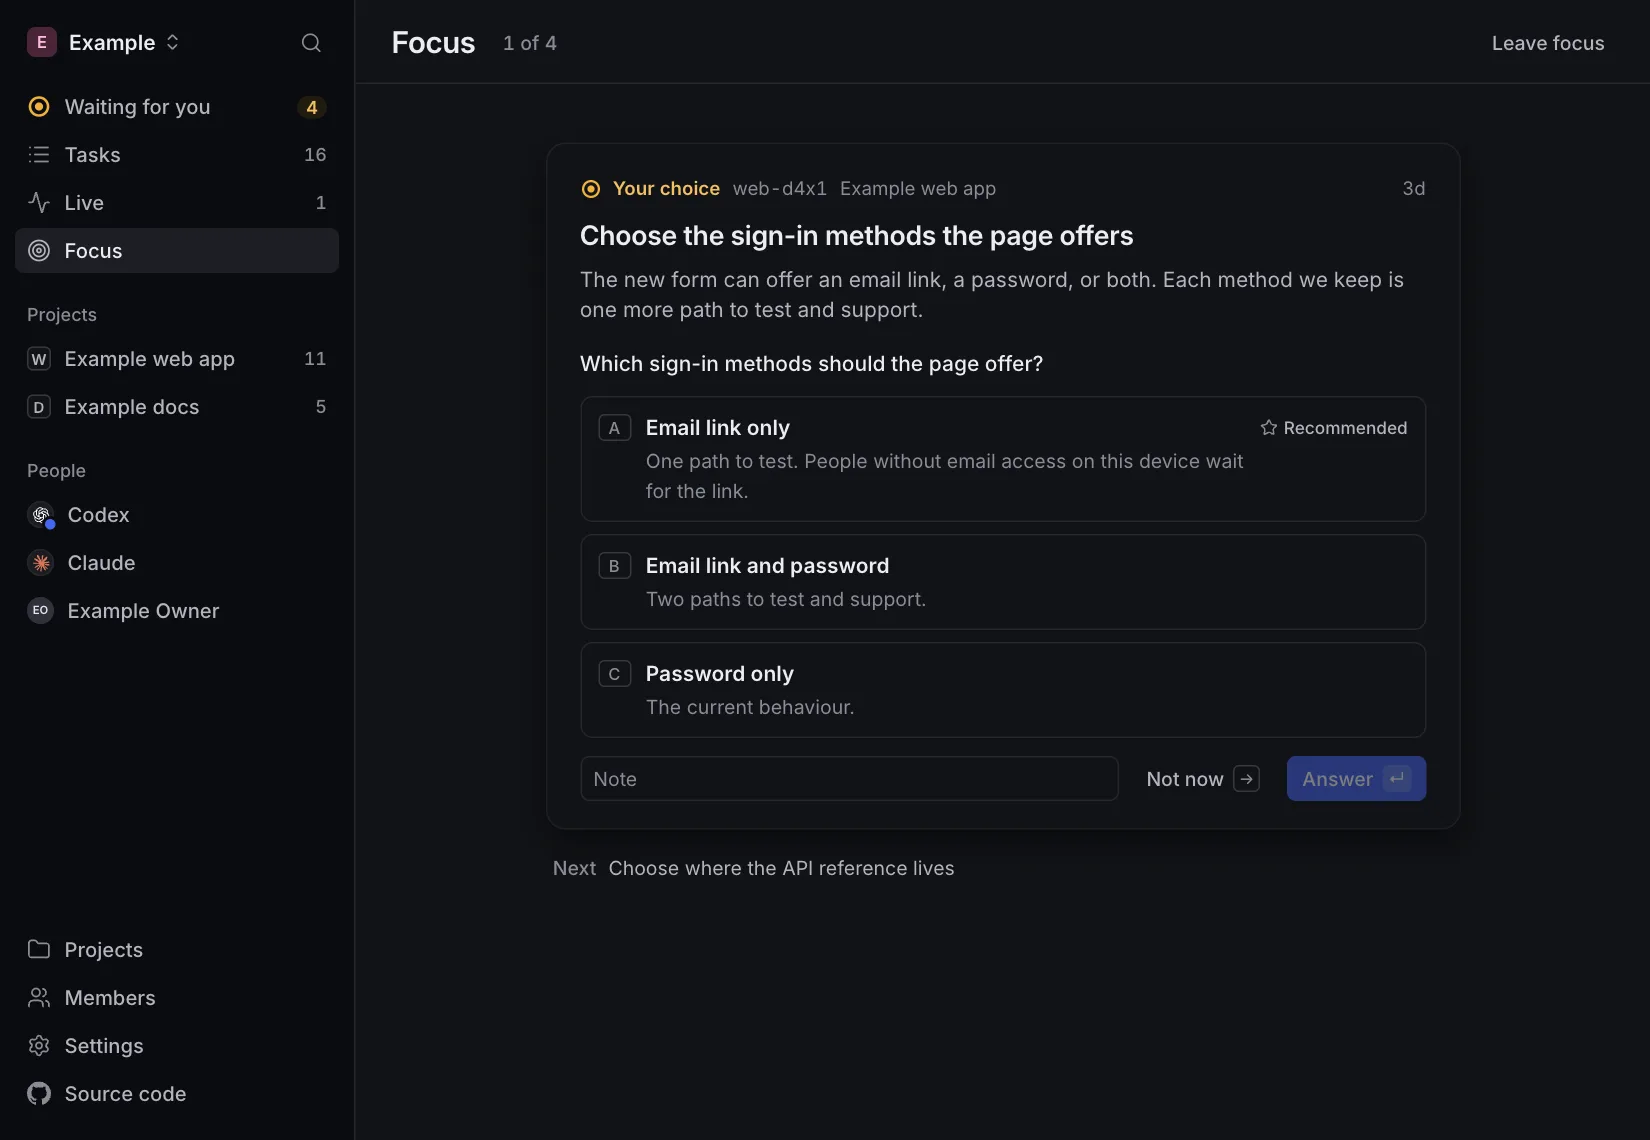
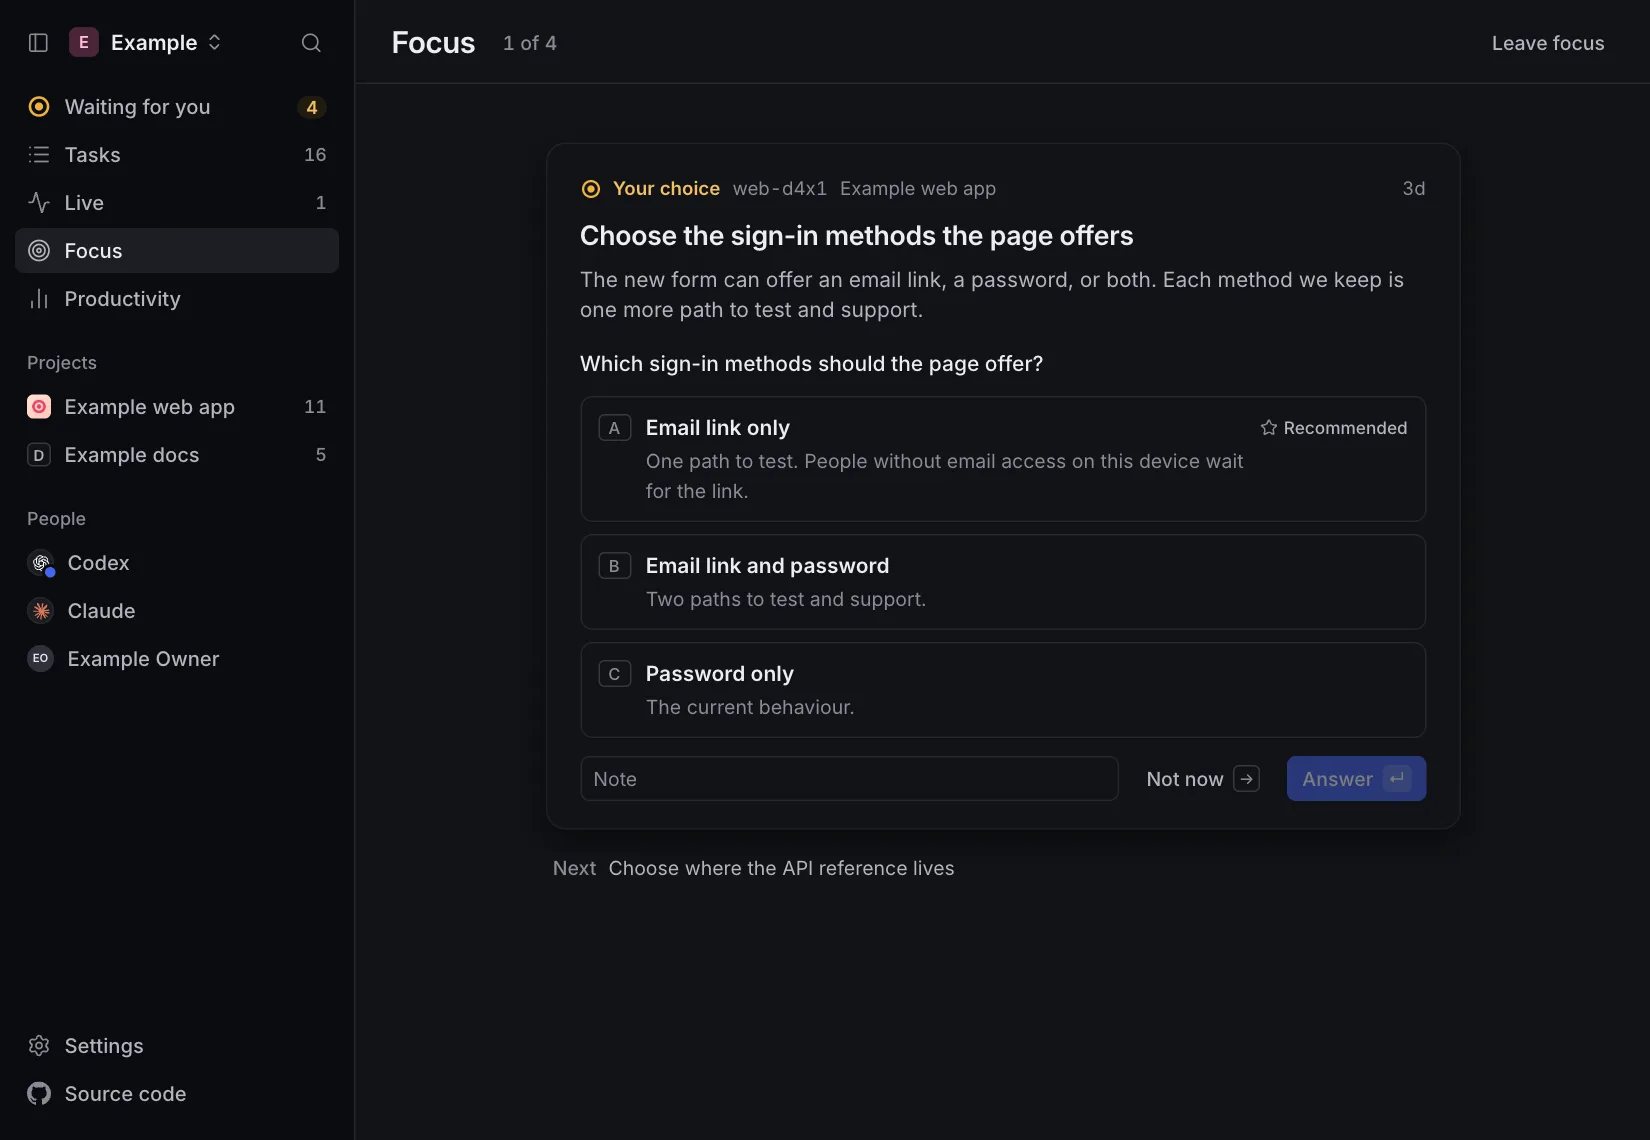
docs: refresh Ntasks screenshots and the shipped walkthrough (#216)

diff --git a/docs/web-app.md b/docs/web-app.md
@@ -13,7 +13,7 @@ close or title, either way, and the address keeps the order.
 
 <picture>
   <source media="(prefers-color-scheme: dark)" srcset="images/board-dark.webp">
-  <img src="images/board-light.webp" width="800" alt="The Tasks board: the sidebar, then Waiting for you with Did it myself, Approve, option and Answer buttons on its rows, then the In progress, Open, Blocked, Parked and Done groups.">
+  <img src="images/board-light.webp" width="800" alt="The Tasks board with a Sidebar button, a site icon beside Example web app, and Settings and Source code at the bottom of the sidebar. Waiting for you appears above the grouped tasks.">
 </picture>
 
 **Epics.** With one project in view, the Epics tab lists the project's open
@@ -72,7 +72,7 @@ hands it back for another agent to claim, keeping that record as a comment.
 
 <picture>
   <source media="(prefers-color-scheme: dark)" srcset="images/live-dark.webp">
-  <img src="images/live-light.webp" width="800" alt="The Live page's board: 1 active, 1 quiet and 1 stalled at the top, then three columns. In progress holds three cards, tinted by activity, each with its project's icon, task id, pull request, next step, holder's icon and last activity; Waiting to ship holds one task not merged yet, and Live holds two.">
+  <img src="images/live-light.webp" width="800" alt="The Live board shows one active, one quiet and one stalled task in the In progress column, one task in Waiting to ship, and two in Live. The Live column has 24 hours and 7 days buttons.">
 </picture>
 
 **Productivity.** What you and your agents got done that matters, day by
@@ -87,7 +87,7 @@ shrinking; its closes are context for the open work, not a score.
 
 <picture>
   <source media="(prefers-color-scheme: dark)" srcset="images/phone-dark.webp">
-  <img src="images/phone-light.webp" width="320" alt="The Tasks board at phone width, with each waiting row's answer on a line under its title.">
+  <img src="images/phone-light.webp" width="320" alt="The Tasks board at phone width with a Sidebar button in the header and answer controls below each waiting task's title.">
 </picture>
 
 **Sign-in and agent approval.** Pages the Worker serves itself.

diff --git a/README.md b/README.md
@@ -31,7 +31,7 @@ whatever needs you.
 <p align="center">
   <picture>
     <source media="(prefers-color-scheme: dark)" srcset="docs/images/hero-dark.webp">
-    <img src="docs/images/hero-light.webp" width="840" alt="The Ntasks board: Waiting for you lists an approval with Did it myself and Approve buttons, two decisions with their options and a task with an Answer button; below it are two tasks in progress, one of them worked on by a helper agent, and four open tasks.">
+    <img src="docs/images/hero-light.webp" width="840" alt="The Ntasks board, with a Sidebar button, a site icon for Example web app, and Settings and Source code at the bottom of the sidebar. Waiting for you lists an approval, two decisions and a question above In progress and Open.">
   </picture>
 </p>
 
